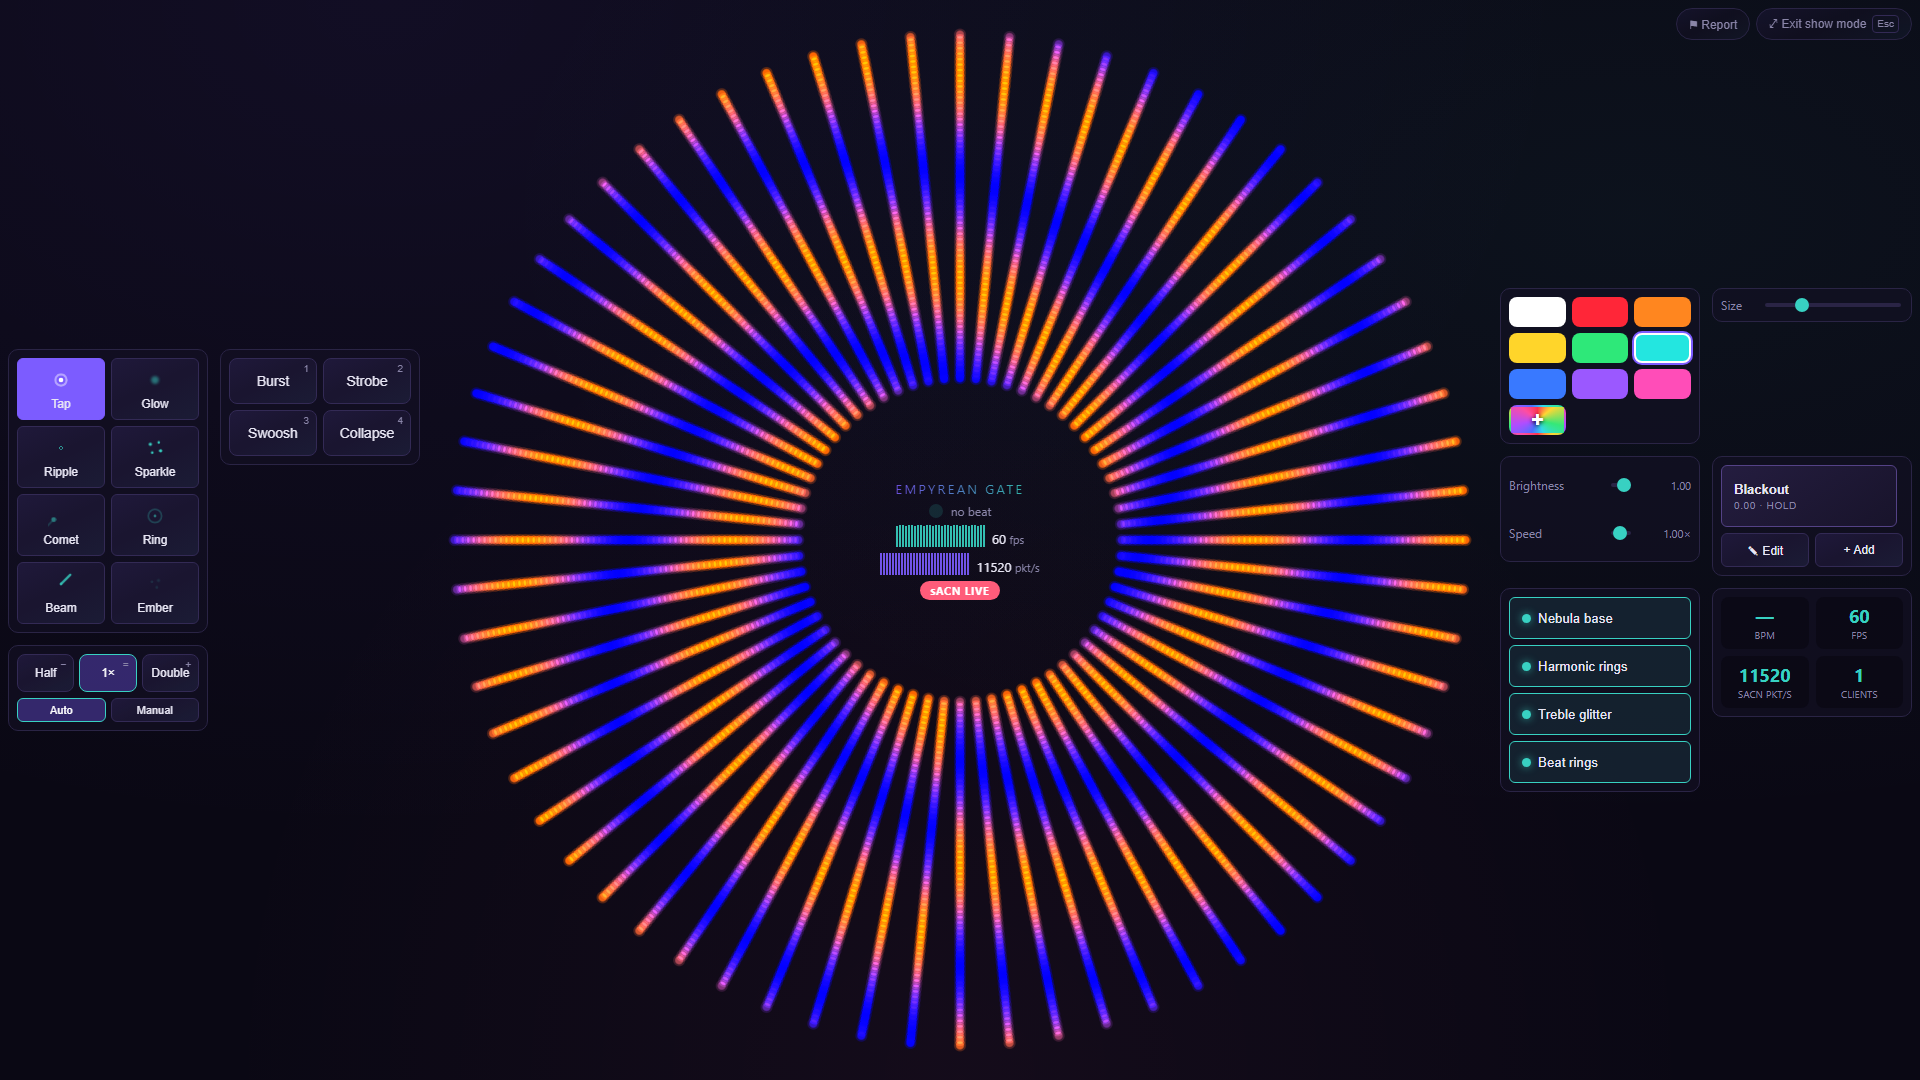
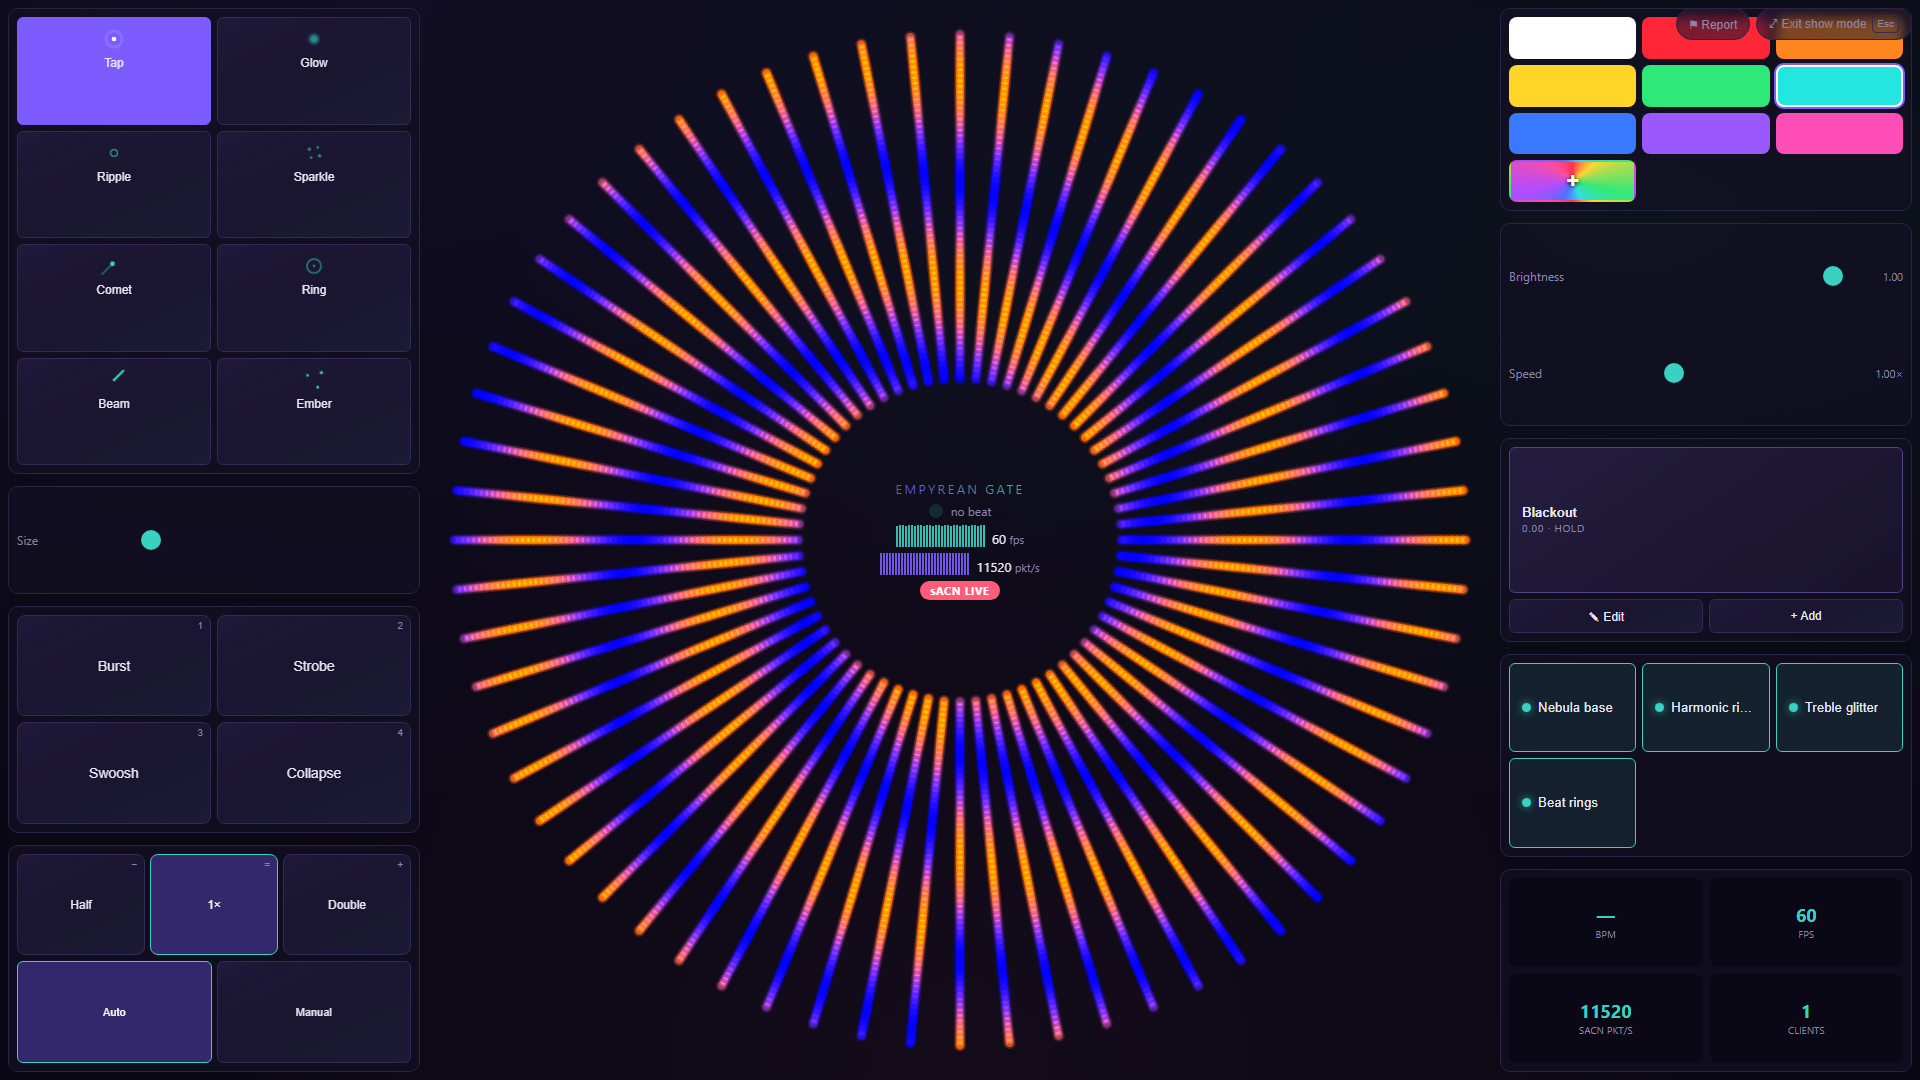
Live's control columns were spending width they should have spent on height
Reported against v0.6.0: the side columns sprawled sideways while their
height sat empty, and the brightness slider could be dragged to 0 and not
brought back.

Both are the same cause. The columns reflowed with
`repeat(auto-fit, minmax(140px, 1fr))`, so a 440px column became three
140px tracks. In one of those, the master cluster had ~165px — and after a
90px "Brightness" label and a 48px readout there was about 10px of slider
left. Wide enough to reach 0. Not wide enough to aim your way back.

The container query meant to catch exactly that was asking the wrong box:
it lived on `.live-side`, whose width says nothing about how many tracks
the column split into. It is on the cluster now, which is the thing that
is actually narrow, so it fires when it should.

Tracks start at 300px instead of 140px, so a column stays one wide track
until there is genuinely room for two. The leftover height is shared out
among the rows rather than banked above and below a centred huddle, with
row spans weighting each cluster by how much content it holds — an
eight-button pen pad was getting the same share as a lone Size slider,
which is where the acres of empty panel came from. Cluster contents grow
with their panel, so the space reaches the buttons instead of stopping at
the border.

Also, on a touch screen the column's own scrollbar was unreachable:
`.live-page` sets `touch-action: none` to keep stray pans off the canvas,
[…]

diff --git a/src/styles.css b/src/styles.css
@@ -323,21 +323,31 @@ main {
   flex: 1 1 0;
   min-width: 0;
   min-height: 0;
-  /* How wide a column ends up is a property of the window's aspect ratio, which
-     no width media query can express. The clusters that care ask the column
-     directly. */
-  container-type: inline-size;
-  container-name: live-column;
   display: grid;
-  grid-template-columns: repeat(auto-fit, minmax(140px, 1fr));
-  align-content: center;
-  align-items: start;
+  /* 300px, not 140px. A 440px column split into three 140px tracks left the
+     master cluster ~10px of actual slider between its label and its readout —
+     wide enough to set brightness to 0 and not wide enough to get back off it.
+     Wide tracks also stop the column spreading sideways while its height sits
+     empty. `min(…, 100%)` so a column narrower than the floor collapses to one
+     track instead of overflowing it. */
+  grid-template-columns: repeat(auto-fit, minmax(min(300px, 100%), 1fr));
+  /* Share the leftover height out among the rows rather than banking it above
+     and below a centred huddle. Clusters grow, and the button grids inside them
+     grow with the row — bigger targets on a surface poked in the dark. */
+  align-content: stretch;
+  align-items: stretch;
+  grid-auto-rows: minmax(min-content, 1fr);
   gap: 12px;
   /* Last resort on a short window: the COLUMN scrolls, never the document. A
      scrollbar on <main> would mean a touch drag pans the page instead of
-     drawing, which is the bug tests/layout.spec.ts exists to catch. */
+     drawing, which is the bug tests/layout.spec.ts exists to catch.
+     `pan-y` re-permits the one gesture that makes this reachable: the page sets
+     `touch-action: none` to protect the canvas from stray pans, which also made
+     an overflowing column impossible to scroll with a finger — the controls
+     below the fold were simply gone on a touch screen. */
   overflow-y: auto;
   overflow-x: hidden;
+  touch-action: pan-y;
 }
 
 
@@ -403,6 +413,118 @@ main {
   border: 1px solid #2a2445;
   border-radius: 10px;
   background: rgba(20, 16, 36, 0.6);
+  /* The container is the CLUSTER, not the column. How wide a cluster ends up
+     depends on how many tracks the column split into, which no ancestor's width
+     predicts — asking the column was the bug that produced a 10px slider. */
+  container-type: inline-size;
+  container-name: live-cluster;
+}
+
+/* Button grids absorb the height the row was given. Slider and readout clusters
+   have nothing to grow, so they centre in theirs instead of hanging off the top. */
+.live-side .cluster.pens,
+.live-side .cluster.effects,
+.live-side .cluster.swatches,
+.live-side .quick-settings-grid,
+.live-side .live-layer-list,
+.live-side .live-status-grid {
+  height: 100%;
+}
+
+/* `min-content`, not a pixel floor. The buttons already carry their own
+   min-heights; adding a second floor on the row only inflated the column's
+   minimum until it overflowed an iPad in landscape. This grows into spare height
+   and gives it back when there is none. */
+.live-side .cluster.pens,
+.live-side .cluster.effects,
+.live-side .cluster.swatches,
+.live-side .live-layer-list,
+.live-side .live-status-grid {
+  grid-auto-rows: minmax(min-content, 1fr);
+}
+
+.live-side .quick-settings-grid {
+  grid-auto-rows: minmax(min-content, var(--quick-button-height));
+  align-content: stretch;
+}
+
+/* Give the panel's height to what is inside it. Without this the cluster grew
+   and its contents did not, so a taller Master panel just meant more empty
+   panel under the Speed slider. Grid-based clusters ignore flex-grow and stretch
+   their own items instead. */
+.live-side .cluster > * {
+  flex-grow: 1;
+}
+
+/* Exception: an edit/add strip is chrome, not a control worth a third of the
+   panel. */
+.live-side .quick-settings-actions {
+  flex-grow: 0;
+}
+
+/* The deck sized these to a fixed pixel tile. In a column that stretches, the
+   cap just left a hole under the last shortcut. */
+.live-side .quick-settings-grid {
+  grid-auto-rows: minmax(min-content, 1fr);
+  /* `1fr`, not the deck's fixed 176px track — one shortcut in a 400px panel
+     should be a 400px target, not a tile with 220px of nothing beside it. */
+  grid-template-columns: repeat(auto-fit, minmax(min(140px, 100%), 1fr));
+}
+
+.live-side .quick-setting-button,
+.live-side .quick-setting-empty {
+  max-height: none;
+}
+
+.live-side .tempo-time-grid,
+.live-side .tempo-mode-row {
+  height: 100%;
+}
+
+/* The swatch's fixed 30px left its stretched row half empty, and a colour chip
+   is exactly the thing that wants to be a big target. */
+.live-side .cluster.swatches .swatch {
+  height: 100%;
+  min-height: 30px;
+}
+
+/* Row spans are how a grid says "this one deserves more of the height". Equal
+   1fr rows gave a single Size slider the same share as an eight-button pen pad,
+   which is where the acre of empty panel came from. Roughly proportional to how
+   many rows of content each actually holds. */
+.live-side .cluster.pens { grid-row: span 4; }
+.live-side .cluster.effects,
+.live-side .cluster.swatches,
+.live-side .cluster.tempo-menu,
+.live-side .cluster.master-ctl,
+.live-side .cluster.quick-ctl,
+.live-side .cluster.live-layer-list,
+.live-side .cluster.live-status-grid { grid-row: span 2; }
+
+/* A show surface is poked with a finger in the dark. Pad the hit area out to
+   ~26px without fattening the track — `background-clip` keeps the painted groove
+   inside the content box. */
+.live-side input[type="range"],
+.corner input[type="range"],
+.live-extras input[type="range"] {
+  height: 6px;
+  padding-block: 10px;
+  background-clip: content-box;
+}
+
+.live-side input[type="range"]::-webkit-slider-thumb,
+.corner input[type="range"]::-webkit-slider-thumb,
+.live-extras input[type="range"]::-webkit-slider-thumb {
+  width: 20px;
+  height: 20px;
+}
+
+/* Fail loudly, not silently. A slider narrower than this is not a control, it is
+   a trap — you can reach 0 and not get back. Overflow here trips the layout gate
+   instead of shipping something unusable. */
+.live-side .slider-row input[type="range"],
+.corner .slider-row input[type="range"] {
+  min-width: 88px;
 }
 
 /* Transparent by default: master, quick settings, layers and status are ordinary
@@ -1067,10 +1189,6 @@ main {
      labels past their own panel. */
   .live-side {
     flex: 0 0 auto;
-    /* Drop the containment with the container: `container-type` implies layout
-       containment, which would make the column — not the page — the containing
-       block for the absolutely positioned "All controls" sheet below. */
-    container-type: normal;
     display: flex;
     flex-flow: row wrap;
     align-items: flex-start;
@@ -2919,7 +3037,7 @@ button:disabled {
 /* A 900x600 window in show mode leaves 142px a side. "Brightness", a usable
    slider and a "1.00×" readout do not fit on one line in that, so the label and
    the value take the top line and the slider takes the whole width below. */
-@container live-column (max-width: 230px) {
+@container live-cluster (max-width: 250px) {
   .master-ctl .slider-row {
     display: grid;
     grid-template-columns: minmax(0, 1fr) auto;

diff --git a/tests/live-controls.spec.ts b/tests/live-controls.spec.ts
@@ -1,0 +1,66 @@
+// Guards the Live control columns against the failure that shipped in v0.6.0:
+// the columns reflowed into narrow auto-fit tracks, the master cluster ended up
+// ~165px wide, and after a 90px "Brightness" label and a 48px readout there was
+// about 10px of actual slider left. You could drag brightness to 0 and then not
+// get back off it — a blackout you cannot undo, on the performance surface.
+//
+// The layout gate cannot catch this: nothing overflowed and nothing was clipped.
+// A control can be perfectly laid out and still be unusable.
+
+import { expect, test } from "@playwright/test";
+
+const VIEWPORTS = [
+  { name: "ultrawide", width: 2560, height: 1080 },
+  { name: "show-display-1080p", width: 1920, height: 1080 },
+  { name: "desktop-default", width: 1400, height: 900 },
+  { name: "window-minimum", width: 900, height: 600 },
+  { name: "ipad-landscape", width: 1180, height: 820 },
+];
+
+/// Below this a slider is not a control, it is a trap. 0..1 over fewer pixels
+/// than this cannot be aimed with a finger in the dark.
+const MIN_USABLE_SLIDER = 88;
+
+for (const viewport of VIEWPORTS) {
+  test(`master sliders stay usable at ${viewport.name}`, async ({ page }) => {
+    await page.setViewportSize({ width: viewport.width, height: viewport.height });
+    await page.goto("/#live");
+    await page.locator('.app[data-connected="yes"]').waitFor({ state: "attached" });
+
+    const sliders = page.locator('.live-side .master-ctl input[type="range"]');
+    await expect(sliders).toHaveCount(2);
+
+    for (const index of [0, 1]) {
+      const box = await sliders.nth(index).boundingBox();
+      expect(box, `slider ${index} has no box`).not.toBeNull();
+      expect(
+        Math.round(box!.width),
+        `slider ${index} at ${viewport.name} is ${Math.round(box!.width)}px wide`,
+      ).toBeGreaterThanOrEqual(MIN_USABLE_SLIDER);
+    }
+  });
+}
+
+test("brightness can be driven to 0 and back up", async ({ page }) => {
+  await page.setViewportSize({ width: 1920, height: 1080 });
+  await page.goto("/#live");
+  await page.locator('.app[data-connected="yes"]').waitFor({ state: "attached" });
+
+  const brightness = page.locator('.live-side .master-ctl input[type="range"]').first();
+  const readout = page.locator(".live-side .master-ctl .slider-row").first().locator(".slider-val");
+
+  // Drag to the far left, then back — the round trip is the thing that broke.
+  const box = (await brightness.boundingBox())!;
+  const y = box.y + box.height / 2;
+  await page.mouse.move(box.x + box.width / 2, y);
+  await page.mouse.down();
+  await page.mouse.move(box.x - 40, y, { steps: 8 });
+  await page.mouse.up();
+  await expect(readout).toHaveText("0.00");
+
+  await page.mouse.move(box.x + 2, y);
+  await page.mouse.down();
+  await page.mouse.move(box.x + box.width * 0.75, y, { steps: 8 });
+  await page.mouse.up();
+  await expect(readout).not.toHaveText("0.00");
+});

diff --git a/src/Live.tsx b/src/Live.tsx
@@ -453,15 +453,18 @@ export default function Live() {
 
   return (
     <div className={`live-page ${showMore ? "more-open" : ""}`}>
+      {/* Brush size sits with the brushes, not with the palette — and it evens
+          the two columns out, which is what keeps column B from overflowing on
+          an iPad in landscape. */}
       <div className="live-side a">
         {pens}
+        {sizeCtl}
         {effects}
         {tempoCtl}
       </div>
       {canvas}
       <div className="live-side b">
         {colors}
-        {sizeCtl}
         {/* `display: contents` wherever there is room, so these sit in the column
             grid like any other cluster. Where there isn't — a portrait tablet,
             a squarish window — they collapse into the "All controls" sheet
